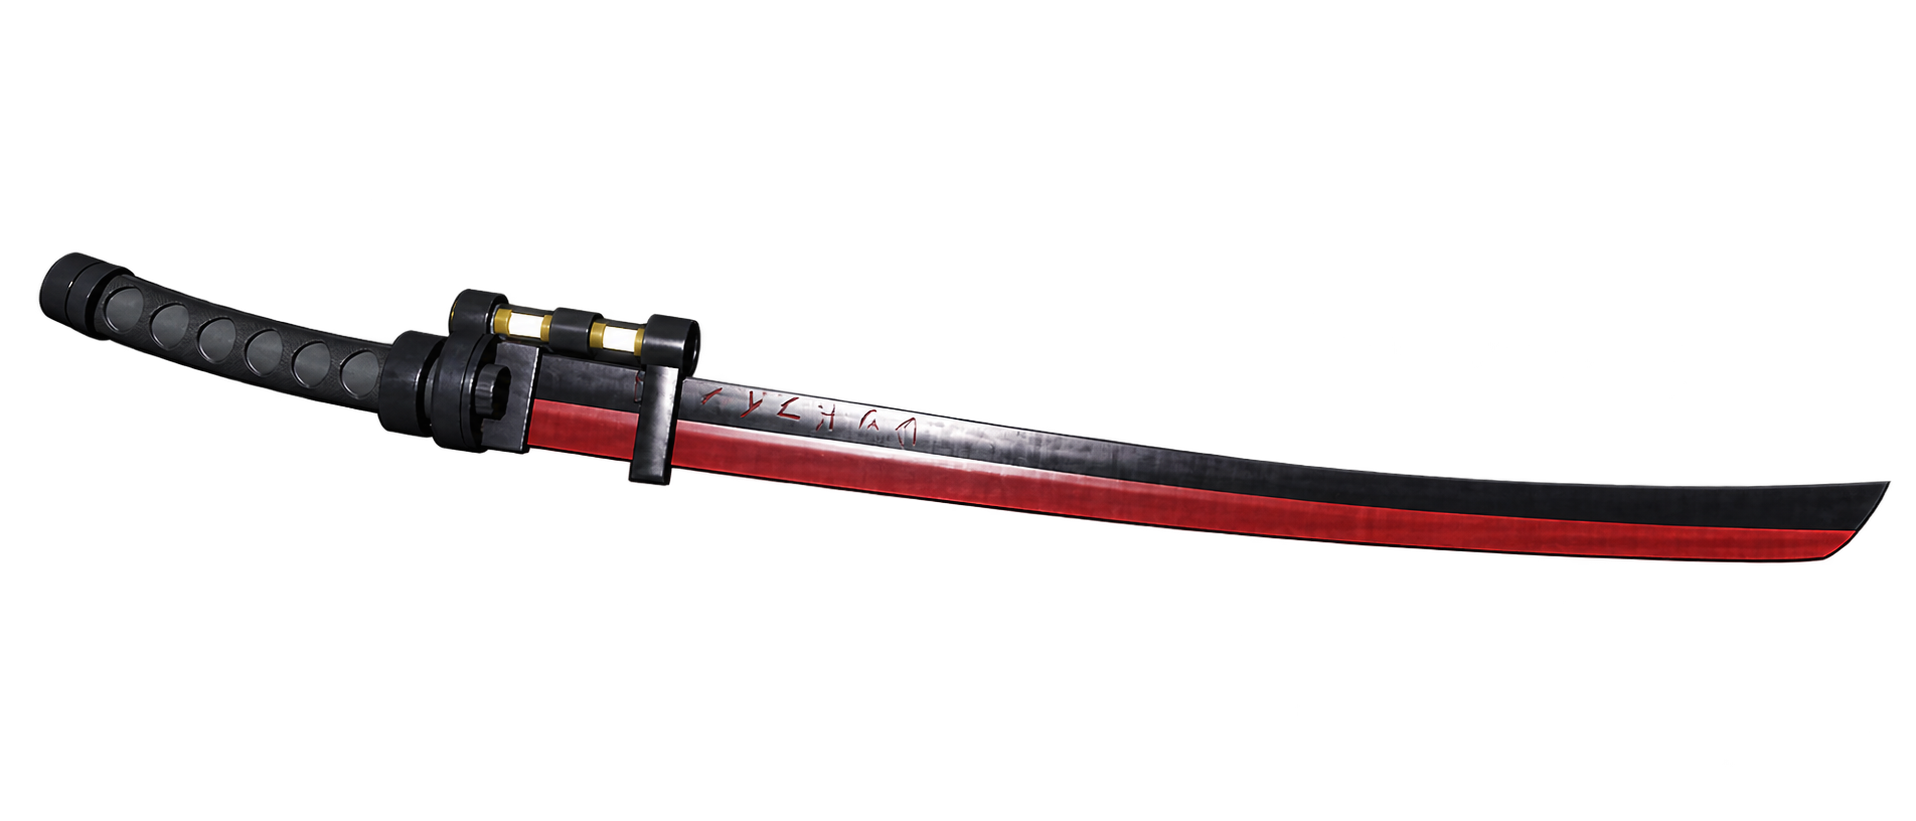
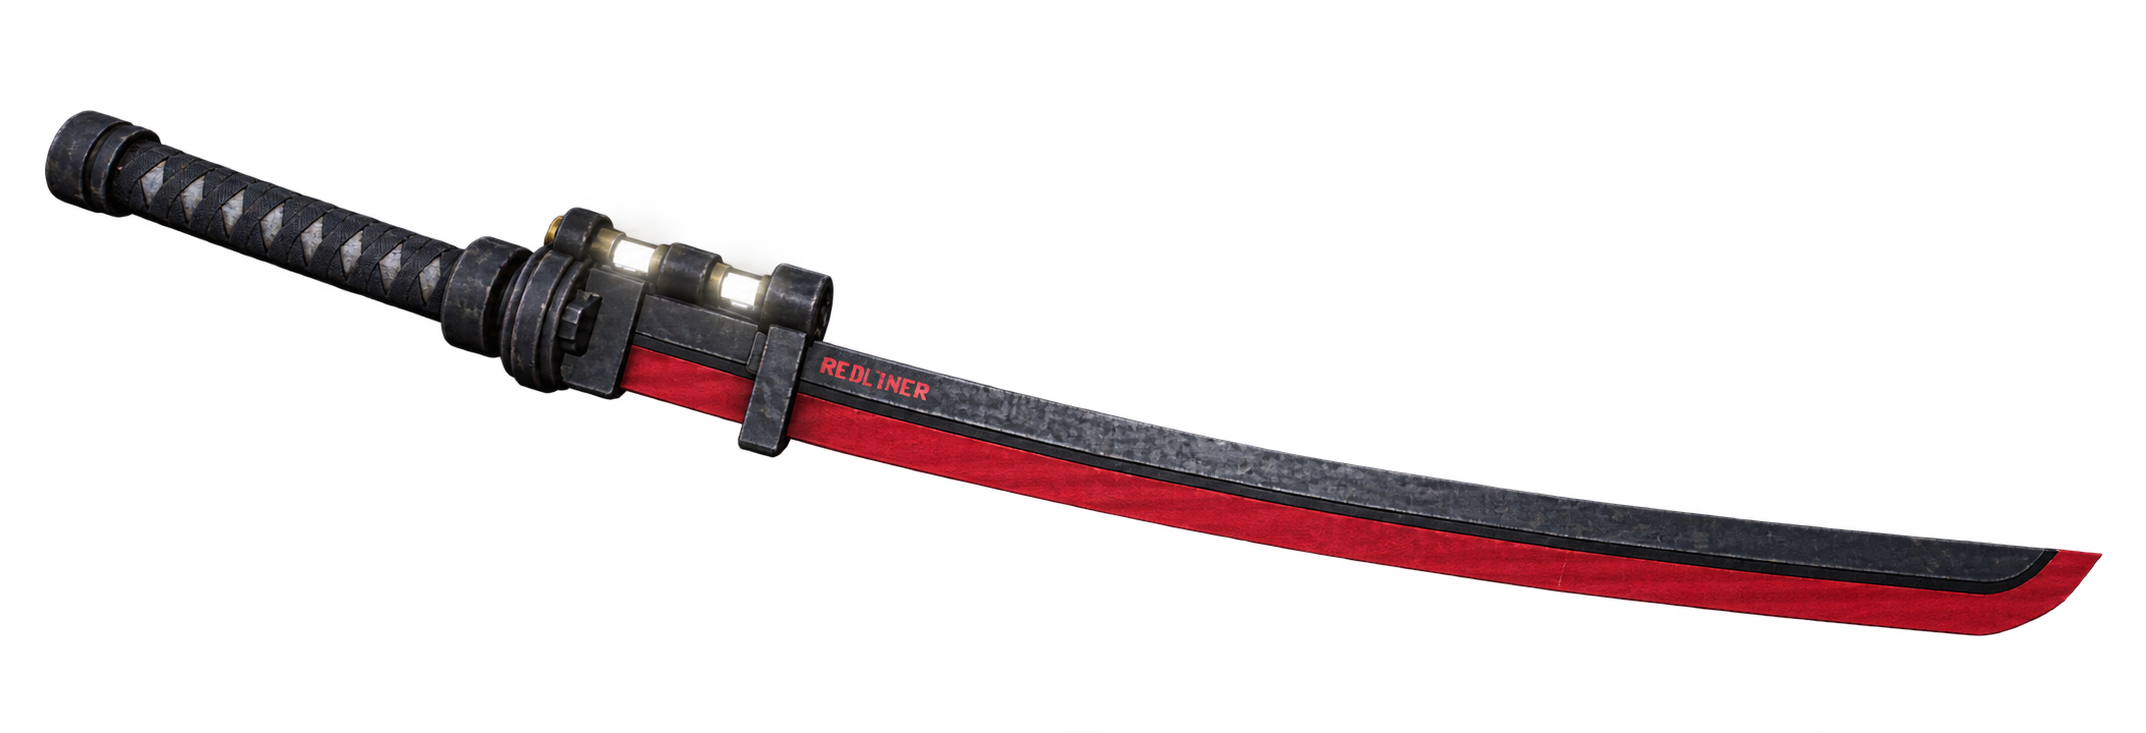
Add new skin gallery cutouts and model versions

Changed region(s): [[0.0, 0.1501, 0.9854, 0.8704]]

diff --git a/public/skin-gallery.js b/public/skin-gallery.js
@@ -3,6 +3,10 @@ import { applyRarityAccent } from "./rarity-theme.js";
 const $ = (id) => document.getElementById(id);
 const PHOTO_FALLBACK = "/skin-photos/unknown.png";
 const DIRECT_CLASSIFIED_BANNER = "Direct Classifieds";
+const OLD_MODEL_PHOTOS = new Map([
+  ["Redliner\u001fDefault", "/skin-photos/old-models/Default-Redliner.png"],
+  ["Redliner\u001fInheritor", "/skin-photos/old-models/Inheritor-Redliner.png"],
+]);
 const SKIN_SHOWCASES = {
   "Castigate\u001fRite Of The Dead": {
     src: "/skin-media/Castigate-RiteOfTheDead-Showcase.mp4",
@@ -372,6 +376,19 @@ const EXCLUSIVE_SKINS = [
       "Sanguine Pledge is untradable. Unlock it through Ranked placement.",
     requirement: "Be actively ranked in the Top 50 in either 1v1s or 2v2s.",
   }),
+  Object.freeze({
+    name: "Conjurer",
+    weapon: "Castigate",
+    rarity: "Exclusive",
+    value: null,
+    exclusive: true,
+    untradable: true,
+    unlockLabel: "Code unlock",
+    unlockTitle: "SUNDER",
+    unlockDescription:
+      "Conjurer is untradable. It was obtained during the Tag update.",
+    requirement: 'Redeem the code "SUNDER" during the Tag update.',
+  }),
 ];
 const ACCENT_PROPERTIES = [
   "--rarity",
@@ -488,6 +505,14 @@ export function createSkinGallery({
   let expanded = false;
   let zoomAnimating = false;
   let zoomTimer = 0;
+  const modelVersions = new Map();
+
+  function modelPhotoUrl(skin) {
+    const key = skinKey(skin);
+    return modelVersions.get(key) === "old"
+      ? OLD_MODEL_PHOTOS.get(key) || photoUrl(skin)
+      : photoUrl(skin);
+  }
 
   function zoomGeometry() {
     const stage = $("gallery-stage");
@@ -702,7 +727,7 @@ export function createSkinGallery({
       label.className = "gallery-cover-label";
       label.textContent =
         browseBy === "banner" ? `${skin.name} / ${skin.weapon}` : skin.name;
-      art.append(photoFor(skin, photoUrl));
+      art.append(photoFor(skin, modelPhotoUrl));
       inner.append(art, label);
       button.append(inner);
       button.addEventListener("pointermove", (event) =>
@@ -791,6 +816,14 @@ export function createSkinGallery({
     $("gallery-skin-name").textContent = skin.name;
     $("gallery-skin-meta").textContent = skin.weapon;
     $("gallery-skin-meta").hidden = !!skin.defaultSkin;
+    const modelKey = skinKey(skin);
+    const hasOldModel = OLD_MODEL_PHOTOS.has(modelKey);
+    $("gallery-model-switch").hidden = !hasOldModel;
+    if (hasOldModel) {
+      const oldSelected = modelVersions.get(modelKey) === "old";
+      $("gallery-model-new").setAttribute("aria-pressed", String(!oldSelected));
+      $("gallery-model-old").setAttribute("aria-pressed", String(oldSelected));
+    }
     $("gallery-banner").hidden = !!skin.untradable;
     $("gallery-value-block").hidden = !!skin.untradable;
     $("gallery-demand").hidden = !!skin.untradable;
@@ -1051,6 +1084,25 @@ export function createSkinGallery({
   $("gallery-jump").addEventListener("change", (event) =>
     setIndex(Number(event.target.value)),
   );
+  for (const version of ["new", "old"]) {
+    $("gallery-model-" + version).addEventListener("click", () => {
+      const skin = groupSkins[index];
+      if (!skin || !OLD_MODEL_PHOTOS.has(skinKey(skin))) return;
+      modelVersions.set(skinKey(skin), version);
+      const image = coverButtons[index]?.querySelector(
+        ".gallery-cover-art img",
+      );
+      if (image) image.src = modelPhotoUrl(skin);
+      $("gallery-model-new").setAttribute(
+        "aria-pressed",
+        String(version === "new"),
+      );
+      $("gallery-model-old").setAttribute(
+        "aria-pressed",
+        String(version === "old"),
+      );
+    });
+  }
   $("gallery-history-retry").addEventListener("click", () => {
     ensureHistory();
     renderChart();

diff --git a/public/skin-photo-manifest.js b/public/skin-photo-manifest.js
@@ -3,6 +3,7 @@ export const SKIN_PHOTO_FILES = [
   "AWP-Monarch.png",
   "Afterburn-Siege.png",
   "Arachnid-Castigate.png",
+  "ArcaneRequiem-Monarch.png",
   "Binary-Monarch.png",
   "Bloodhound-Siege.png",
   "BloomingDeath-Liberator.png",
@@ -10,7 +11,9 @@ export const SKIN_PHOTO_FILES = [
   "Carmine-Castigate.png",
   "Cavalry-Redliner.png",
   "Cobwebs-Monarch.png",
+  "Conjurer-Castigate.png",
   "Cryptbound-Redliner.png",
+  "CursedRemnant-Redliner.png",
   "Default-Castigate.png",
   "Default-Liberator.png",
   "Default-Monarch.png",
@@ -21,6 +24,7 @@ export const SKIN_PHOTO_FILES = [
   "Demise-Redliner.png",
   "Desolated-Siege.png",
   "Domini-Siege.png",
+  "Draconite-Castigate.png",
   "Dracula-Revolt.png",
   "Dragora-Monarch.png",
   "Dune-Revolt.png",
@@ -38,7 +42,11 @@ export const SKIN_PHOTO_FILES = [
   "HeavyDuty-Phoenix.png",
   "Hex-Revolt.png",
   "HighVoltage-Redliner.png",
+  "HollowForm-Siege.png",
+  "HuntersPride-Siege.png",
   "Inheritor-Redliner.png",
+  "IronVow-Redliner.png",
+  "Jade-Liberator.png",
   "Jetstream-Redliner.png",
   "Komyo-Redliner.png",
   "Kugelblitz-Phoenix.png",
@@ -47,11 +55,15 @@ export const SKIN_PHOTO_FILES = [
   "Mooncharm-Monarch.png",
   "Nightwing-Revolt.png",
   "Nihility-Redliner.png",
+  "NobleLegacy-Castigate.png",
   "Obelisk-Phoenix.png",
   "OriginEnd-Redliner.png",
   "Ossuary-Redliner.png",
+  "Powder&Prayer-Phoenix.png",
   "Radiance-Monarch.png",
+  "Ravenous-Liberator.png",
   "Rebecca-Siege.png",
+  "Reliquary-Revolt.png",
   "RiteOfTheDead-Castigate.png",
   "SanguinePledge-Redliner.png",
   "Scoria-Monarch.png",

diff --git a/public/index.html b/public/index.html
@@ -364,6 +364,29 @@
               <span id="gallery-rarity" class="gallery-rarity"></span>
               <h3 id="gallery-skin-name"></h3>
               <p id="gallery-skin-meta"></p>
+              <div
+                id="gallery-model-switch"
+                class="gallery-model-switch"
+                role="group"
+                aria-label="Weapon model"
+                hidden
+              >
+                <span>MODEL</span>
+                <button
+                  id="gallery-model-new"
+                  type="button"
+                  aria-pressed="true"
+                >
+                  New
+                </button>
+                <button
+                  id="gallery-model-old"
+                  type="button"
+                  aria-pressed="false"
+                >
+                  Old
+                </button>
+              </div>
               <p id="gallery-banner" class="gallery-banner"></p>
               <p
                 id="gallery-untradable-status"

diff --git a/public/styles.css b/public/styles.css
@@ -2823,6 +2823,40 @@ footer a:hover {
   margin: 7px 0;
   color: var(--muted);
 }
+.gallery-model-switch {
+  display: flex;
+  align-items: center;
+  gap: 4px;
+  margin: 12px 0;
+}
+.gallery-model-switch span {
+  margin-right: 7px;
+  color: var(--muted);
+  font:
+    700 11px ui-monospace,
+    Consolas,
+    monospace;
+  letter-spacing: 0.08em;
+}
+.gallery-model-switch button {
+  padding: 5px 11px;
+  border: 1px solid var(--line);
+  background: var(--panel2);
+  color: var(--text);
+  font:
+    700 12px ui-monospace,
+    Consolas,
+    monospace;
+  cursor: pointer;
+}
+.gallery-model-switch button[aria-pressed="true"] {
+  border-color: var(--skin-ink, var(--accent));
+  color: var(--skin-ink, var(--accent));
+}
+.gallery-model-switch button:focus-visible {
+  outline: 2px solid var(--accent);
+  outline-offset: 2px;
+}
 .gallery-exclusive-accent {
   --skin-ink-light: #286d80;
   --skin-ink-dark: #c4f1ff;
